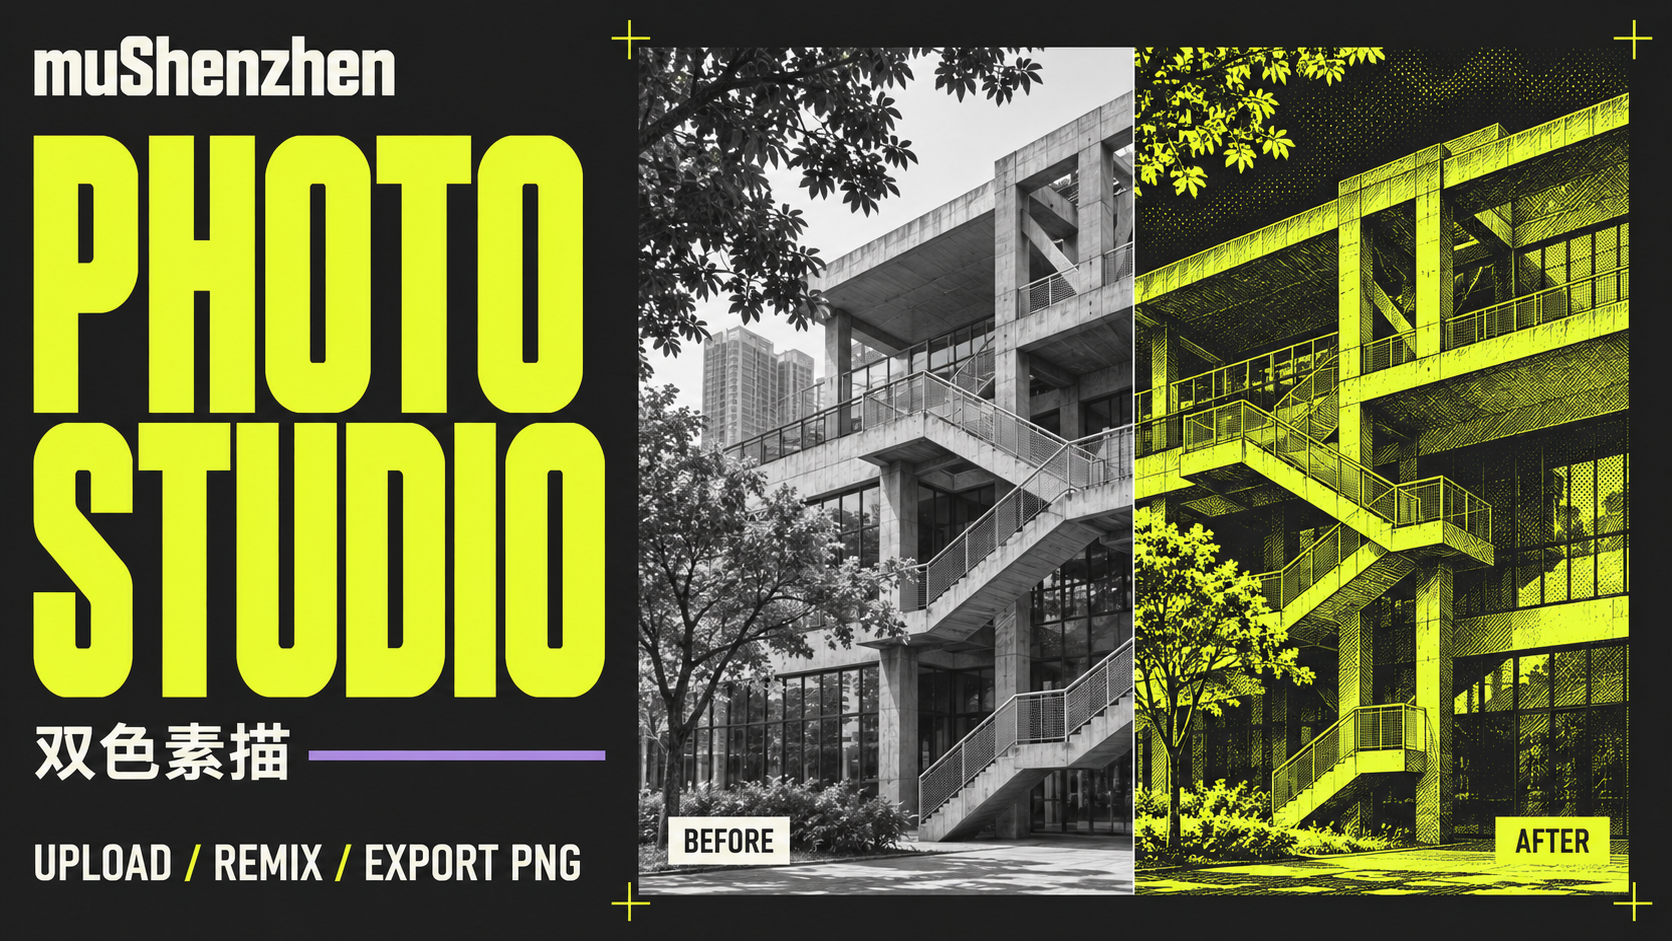
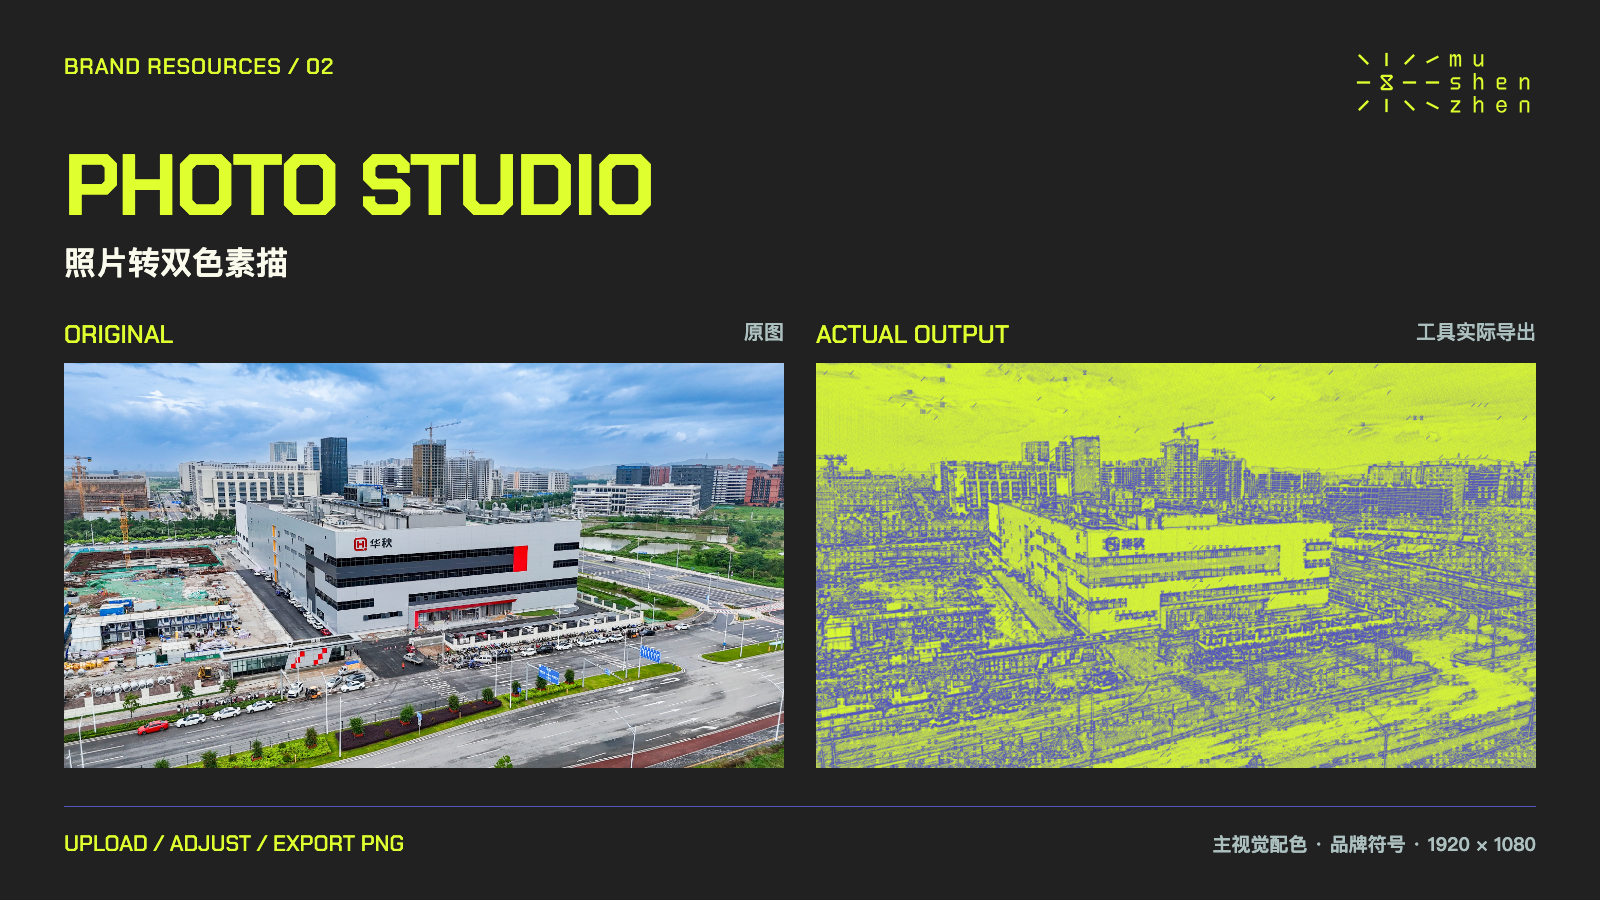
Replace preview posters with approved brand-compliant artwork

diff --git a/assets/previews/README.md b/assets/previews/README.md
@@ -1,6 +1,8 @@
 # 资源入口预览海报
 
-- presentation-kit.png：品牌演示模板入口，三品牌版式概念展示。
-- photo-studio.png：Photo Studio 双色素描入口，照片转双色效果示意。
+2026-11-29，经品牌负责人审核通过后替换。
 
-2026-11-29 制作。AI 生成的宣传海报，并非工具界面截图或逐像素的实际导出结果。原始品牌模板及工具保持不变。
+- presentation-kit.png：真实的 muShenzhen、Garage、Human Flourishing 模板页面，使用示例标题展示。
+- photo-studio.png：Photo Studio 自带建筑示例原图与工具实际导出结果，非 AI 模拟效果。主视觉主题，紫色 #5456BE、荧光绿 #DFFF2F，双色素描模式，品牌符号开启，导出 1920 × 1080 PNG。
+
+两张海报均使用正式品牌 Logo、Chakra Petch 与 IBM Plex Sans SC 字体。海报尺寸为 1600 × 900。原始模板及工具功能不变。
